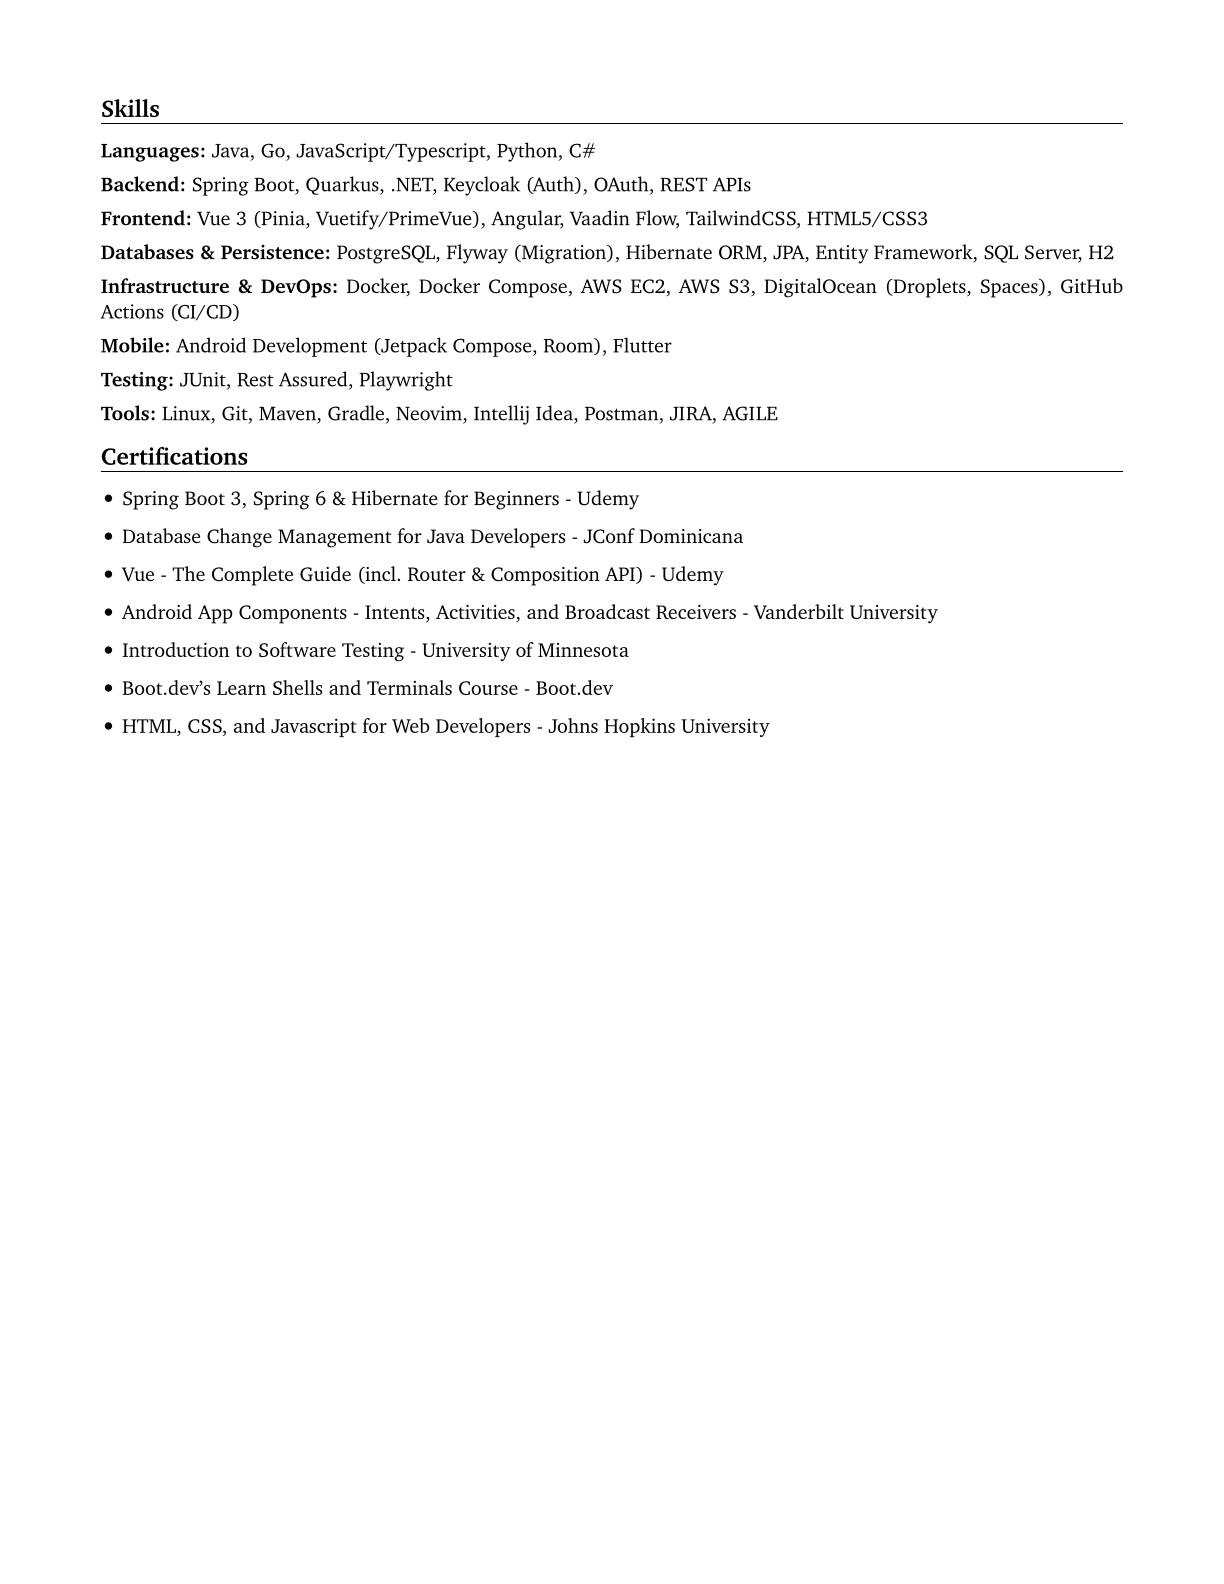
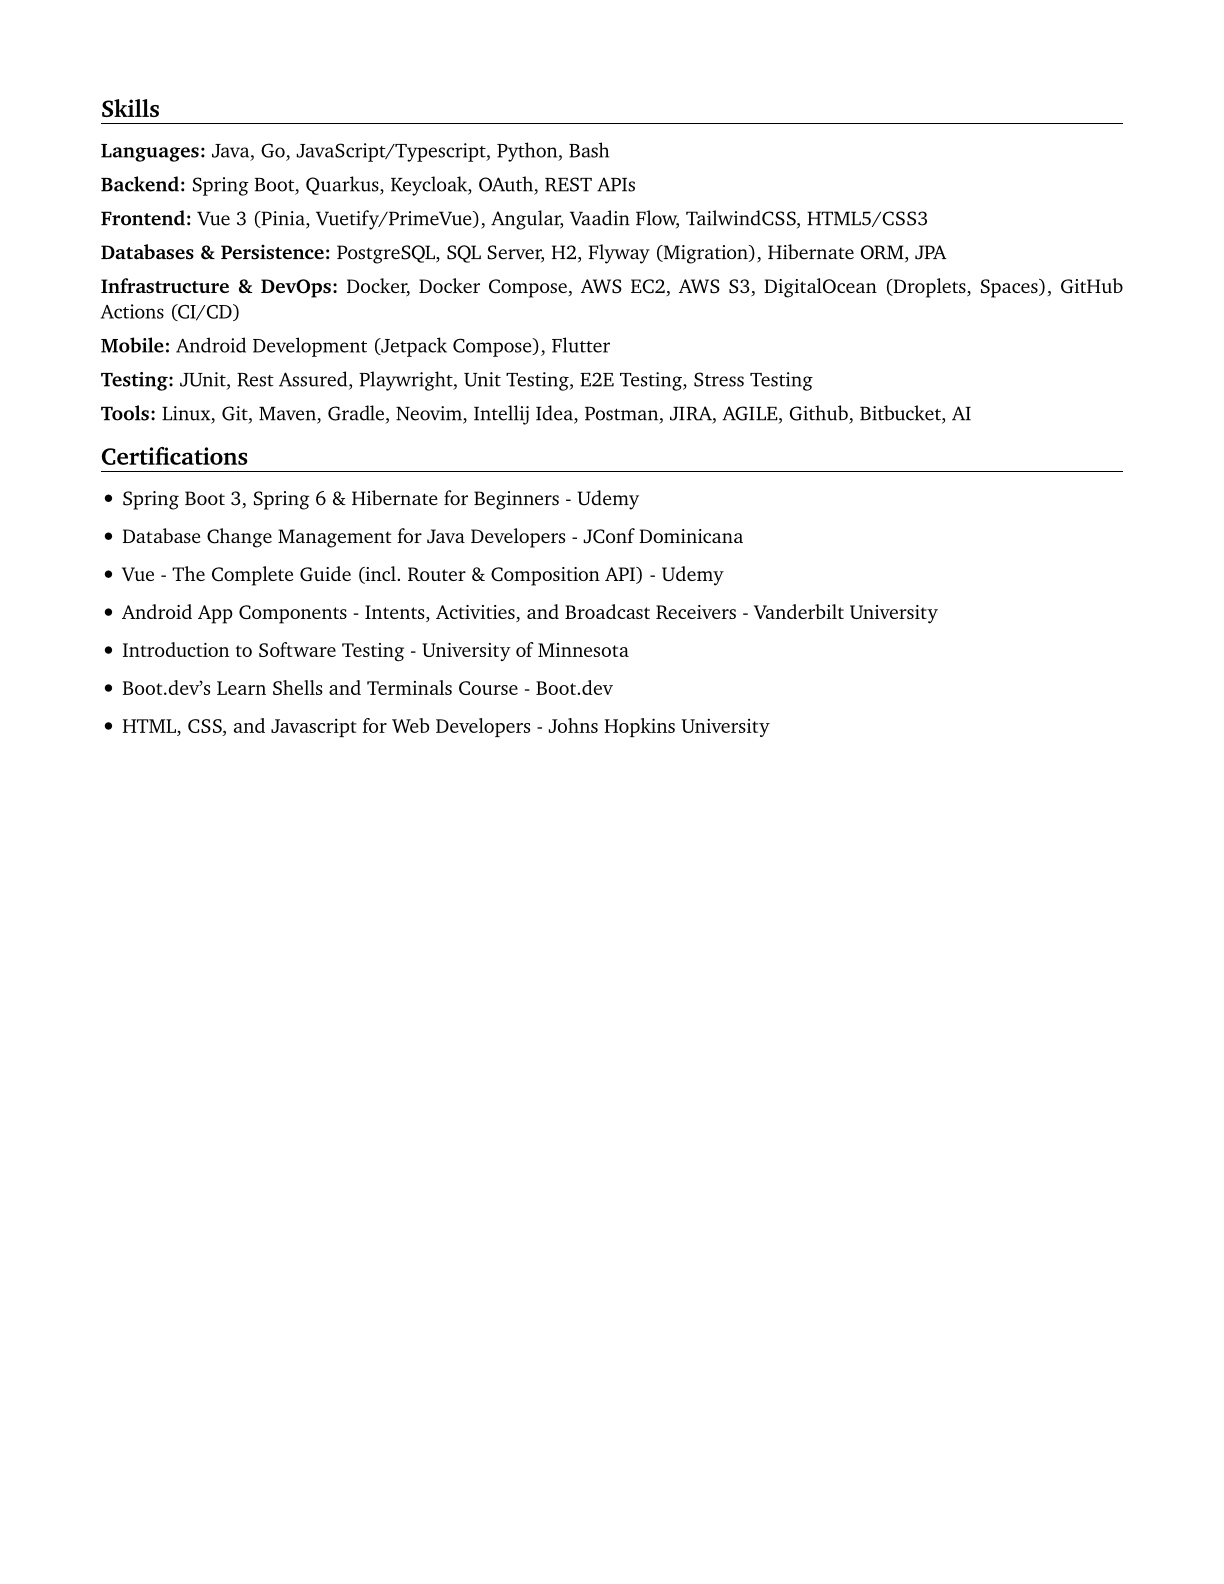
render resume

diff --git a/index.html b/index.html
@@ -102,14 +102,14 @@
         </li>
         </ul>
         <h1>Skills</h1>
-        <p><strong>Languages:</strong> Java, Go, JavaScript/Typescript, Python, C#</p>
-        <p><strong>Backend:</strong> Spring Boot, Quarkus, .NET, Keycloak (Auth), OAuth, REST APIs</p>
+        <p><strong>Languages:</strong> Java, Go, JavaScript/Typescript, Python, Bash</p>
+        <p><strong>Backend:</strong> Spring Boot, Quarkus, Keycloak, OAuth, REST APIs</p>
         <p><strong>Frontend:</strong> Vue 3 (Pinia, Vuetify/PrimeVue), Angular, Vaadin Flow, TailwindCSS, HTML5/CSS3</p>
-        <p><strong>Databases &amp; Persistence:</strong> PostgreSQL, Flyway (Migration), Hibernate ORM, JPA, Entity Framework, SQL Server, H2</p>
+        <p><strong>Databases &amp; Persistence:</strong> PostgreSQL, SQL Server, H2, Flyway (Migration), Hibernate ORM, JPA</p>
         <p><strong>Infrastructure &amp; DevOps:</strong> Docker, Docker Compose, AWS EC2, AWS S3, DigitalOcean (Droplets, Spaces), GitHub Actions (CI/CD)</p>
-        <p><strong>Mobile:</strong> Android Development (Jetpack Compose, Room), Flutter</p>
-        <p><strong>Testing:</strong> JUnit, Rest Assured, Playwright</p>
-        <p><strong>Tools:</strong> Linux, Git, Maven, Gradle, Neovim, Intellij Idea, Postman, JIRA, AGILE</p>
+        <p><strong>Mobile:</strong> Android Development (Jetpack Compose), Flutter</p>
+        <p><strong>Testing:</strong> JUnit, Rest Assured, Playwright, Unit Testing, E2E Testing, Stress Testing</p>
+        <p><strong>Tools:</strong> Linux, Git, Maven, Gradle, Neovim, Intellij Idea, Postman, JIRA, AGILE, Github, Bitbucket, AI</p>
         <h1>Certifications</h1>
         <ul>
         <li>

diff --git a/rendercv_output/Randae_Garcia_Sanchez_CV.html b/rendercv_output/Randae_Garcia_Sanchez_CV.html
@@ -102,14 +102,14 @@
         </li>
         </ul>
         <h1>Skills</h1>
-        <p><strong>Languages:</strong> Java, Go, JavaScript/Typescript, Python, C#</p>
-        <p><strong>Backend:</strong> Spring Boot, Quarkus, .NET, Keycloak (Auth), OAuth, REST APIs</p>
+        <p><strong>Languages:</strong> Java, Go, JavaScript/Typescript, Python, Bash</p>
+        <p><strong>Backend:</strong> Spring Boot, Quarkus, Keycloak, OAuth, REST APIs</p>
         <p><strong>Frontend:</strong> Vue 3 (Pinia, Vuetify/PrimeVue), Angular, Vaadin Flow, TailwindCSS, HTML5/CSS3</p>
-        <p><strong>Databases &amp; Persistence:</strong> PostgreSQL, Flyway (Migration), Hibernate ORM, JPA, Entity Framework, SQL Server, H2</p>
+        <p><strong>Databases &amp; Persistence:</strong> PostgreSQL, SQL Server, H2, Flyway (Migration), Hibernate ORM, JPA</p>
         <p><strong>Infrastructure &amp; DevOps:</strong> Docker, Docker Compose, AWS EC2, AWS S3, DigitalOcean (Droplets, Spaces), GitHub Actions (CI/CD)</p>
-        <p><strong>Mobile:</strong> Android Development (Jetpack Compose, Room), Flutter</p>
-        <p><strong>Testing:</strong> JUnit, Rest Assured, Playwright</p>
-        <p><strong>Tools:</strong> Linux, Git, Maven, Gradle, Neovim, Intellij Idea, Postman, JIRA, AGILE</p>
+        <p><strong>Mobile:</strong> Android Development (Jetpack Compose), Flutter</p>
+        <p><strong>Testing:</strong> JUnit, Rest Assured, Playwright, Unit Testing, E2E Testing, Stress Testing</p>
+        <p><strong>Tools:</strong> Linux, Git, Maven, Gradle, Neovim, Intellij Idea, Postman, JIRA, AGILE, Github, Bitbucket, AI</p>
         <h1>Certifications</h1>
         <ul>
         <li>

diff --git a/rendercv_output/Randae_Garcia_Sanchez_CV.md b/rendercv_output/Randae_Garcia_Sanchez_CV.md
@@ -61,21 +61,21 @@ Feb 2025 – Apr 2025
 
 
 # Skills
-**Languages:** Java, Go, JavaScript/Typescript, Python, C#
+**Languages:** Java, Go, JavaScript/Typescript, Python, Bash
 
-**Backend:** Spring Boot, Quarkus, .NET, Keycloak (Auth), OAuth, REST APIs
+**Backend:** Spring Boot, Quarkus, Keycloak, OAuth, REST APIs
 
 **Frontend:** Vue 3 (Pinia, Vuetify/PrimeVue), Angular, Vaadin Flow, TailwindCSS, HTML5/CSS3
 
-**Databases & Persistence:** PostgreSQL, Flyway (Migration), Hibernate ORM, JPA, Entity Framework, SQL Server, H2
+**Databases & Persistence:** PostgreSQL, SQL Server, H2, Flyway (Migration), Hibernate ORM, JPA
 
 **Infrastructure & DevOps:** Docker, Docker Compose, AWS EC2, AWS S3, DigitalOcean (Droplets, Spaces), GitHub Actions (CI/CD)
 
-**Mobile:** Android Development (Jetpack Compose, Room), Flutter
+**Mobile:** Android Development (Jetpack Compose), Flutter
 
-**Testing:** JUnit, Rest Assured, Playwright
+**Testing:** JUnit, Rest Assured, Playwright, Unit Testing, E2E Testing, Stress Testing
 
-**Tools:** Linux, Git, Maven, Gradle, Neovim, Intellij Idea, Postman, JIRA, AGILE
+**Tools:** Linux, Git, Maven, Gradle, Neovim, Intellij Idea, Postman, JIRA, AGILE, Github, Bitbucket, AI
 
 # Certifications
 - Spring Boot 3, Spring 6 & Hibernate for Beginners - Udemy
